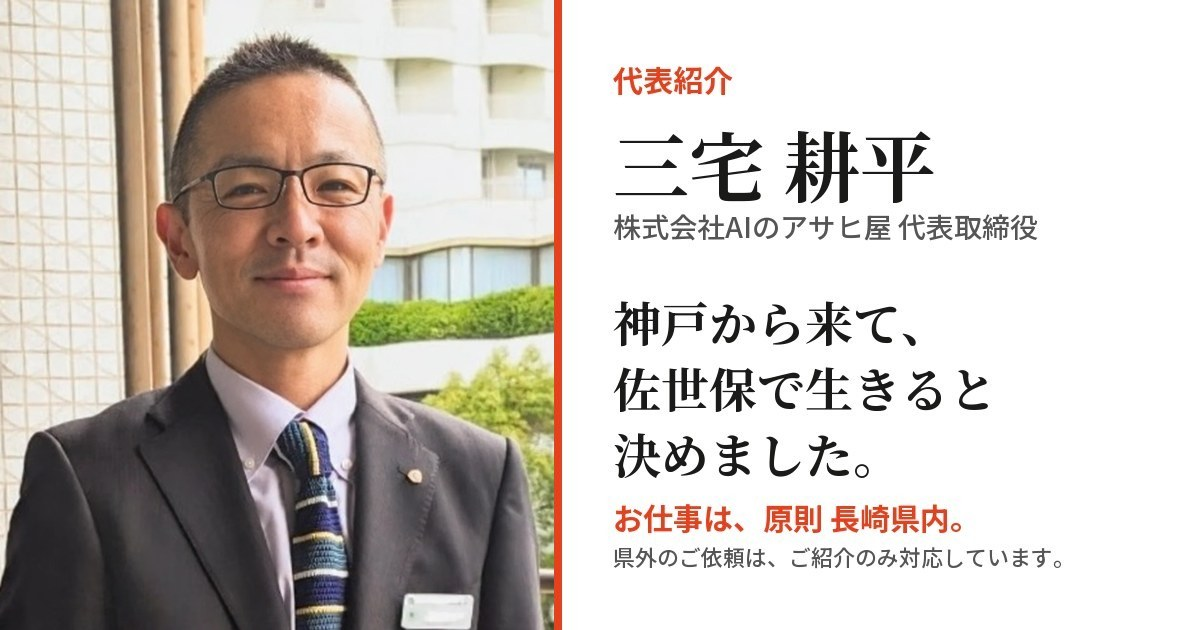
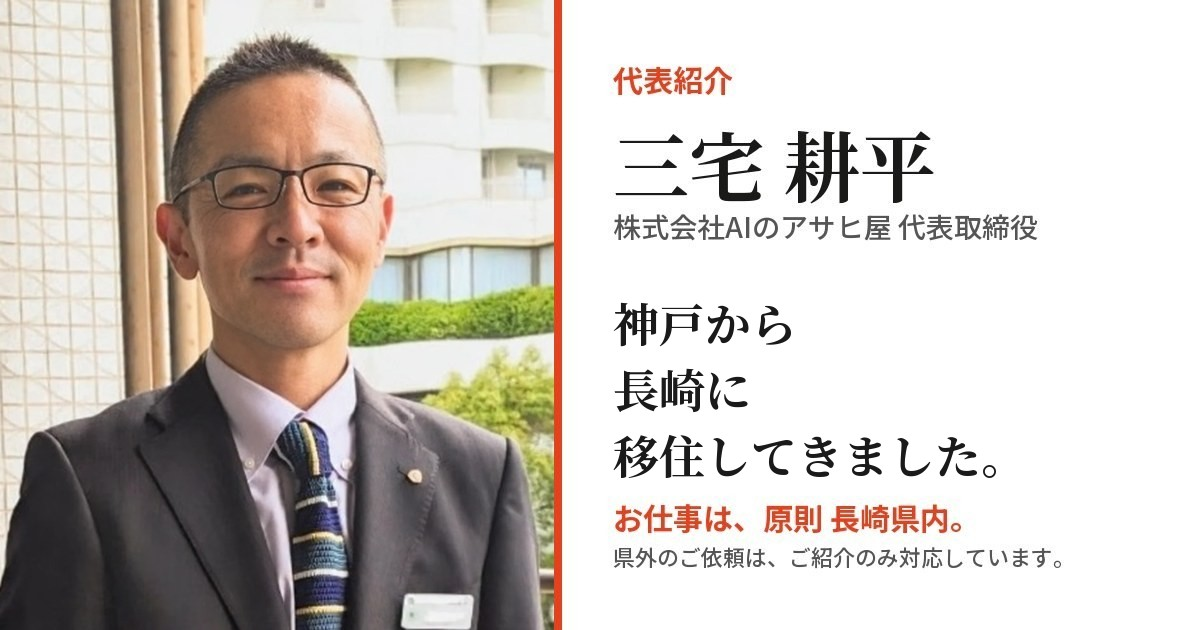
代表紹介の共有用画像の言葉を「神戸から長崎に移住してきました。」に作り直す

Changed region(s): [[0.4933, 0.573, 0.8325, 0.6635], [0.4933, 0.6937, 0.8325, 0.7841], [0.5242, 0.4825, 0.7708, 0.5429]]

diff --git a/about/index.html b/about/index.html
@@ -14,7 +14,7 @@
 <meta property="og:title" content="代表紹介 三宅耕平｜株式会社 AIのアサヒ屋">
 <meta property="og:description" content="神戸から長崎に移住してきました。お仕事は、原則 長崎県内。県外はご紹介のみ対応しています。">
 <meta property="og:url" content="https://asahiya-ai.com/about/">
-<meta property="og:image" content="https://asahiya-ai.com/about/images/ogp.jpg?v=20261026">
+<meta property="og:image" content="https://asahiya-ai.com/about/images/ogp.jpg?v=20261110">
 <meta property="og:site_name" content="株式会社 AIのアサヒ屋">
 <meta property="og:locale" content="ja_JP">
 <meta name="twitter:card" content="summary_large_image">
